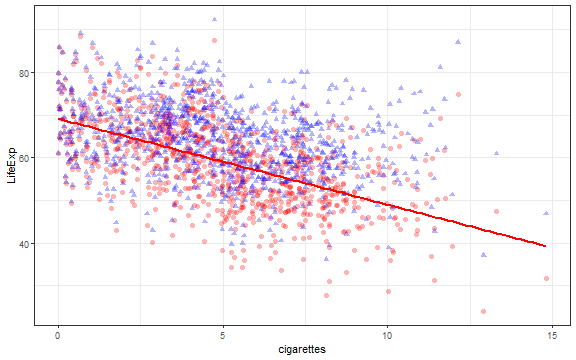
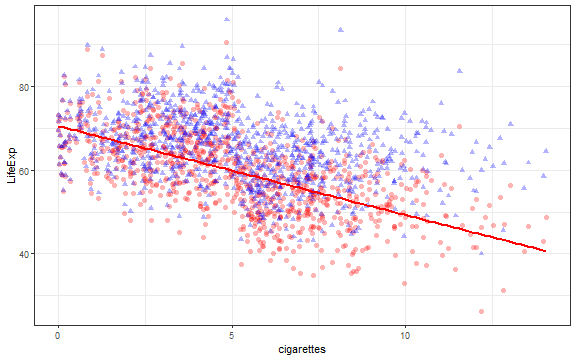
upd 3 at end

diff --git a/lec/03-Counterfactuals-and-Selection/03-Counterfactuals-and-Selection.html b/lec/03-Counterfactuals-and-Selection/03-Counterfactuals-and-Selection.html
@@ -18,7 +18,7 @@ class: center, middle, inverse, title-slide
 # Counterfactuals and Selection Bias
 ## EC420 MSU Online
 ### Justin Kirkpatrick
-### Last updated June 05, 2021
+### Last updated June 06, 2021
 
 ---
 
@@ -250,7 +250,7 @@ class: MSU
 
 - The red dots are the given data, plotting `\(LifeExp \sim cigarettes\)`
 - The blue triangles are where the points **would be if we could account for** `\(E[\tilde{u}|X]\neq 0\)`
-- Here, `\(E[\tilde{u}|X] = -1.01 \times cigarettes\)`
+- Here, `\(E[\tilde{u}|X] = -1.12 \times cigarettes\)`
 
 ---
 class: MSU
@@ -835,7 +835,6 @@ name: section5
 Randomization and Experiments
 
 
-&lt;br&gt;
 ### [top](#Overview)
 
 
